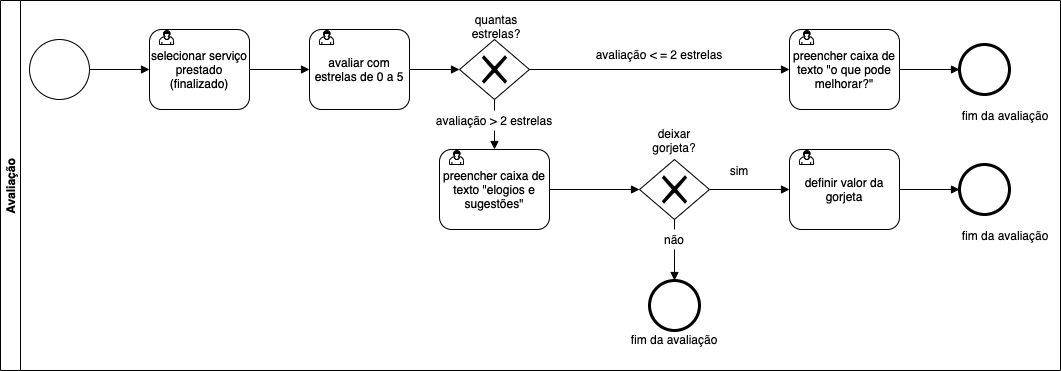
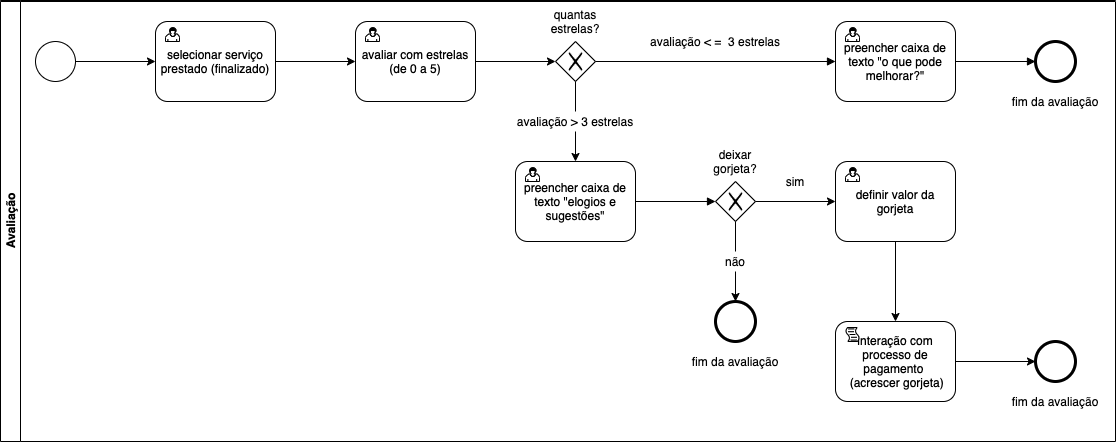
nova atualizacao do modelo de processo de avaliacao e correcao da numeracao dos processos nos nomes das imagens

diff --git a/documentacao/relatorio_final.md b/documentacao/relatorio_final.md
@@ -104,15 +104,15 @@ Segundo o Instituto Brasileiro de Geografia e Estatística (IBGE), em 2019 o des
 
 ### 3.3.3 Processo 3 - Processo de pedido
 
-![Modelo BMPN do PROCESSO 4](imagens/processo_pedido.png "Modelo BPMN do Processo de pedido")
+![Modelo BMPN do PROCESSO 3](imagens/processo_pedido.png "Modelo BPMN do Processo de pedido")
 
 ### 3.3.4 Processo 4 – Processo de pagamento 
 
-![Modelo BPMN do PROCESSO 3](imagens/Processo-pagamento.png "Modelo BPMN do Processo de pagamento.")
+![Modelo BPMN do PROCESSO 4](imagens/Processo-pagamento.png "Modelo BPMN do Processo de pagamento.")
 
 ### 3.3.5 Processo 5 - Processo de avaliação
 
-![Modelo BMPN do PROCESSO 4](imagens/modelo_processo_avaliacao.png "Modelo BPMN do Processo de avaliação.")
+![Modelo BMPN do PROCESSO 5](imagens/modelo_processo_avaliacao.png "Modelo BPMN do Processo de avaliação.")
 
 ## 4. Projeto da Solução
 
